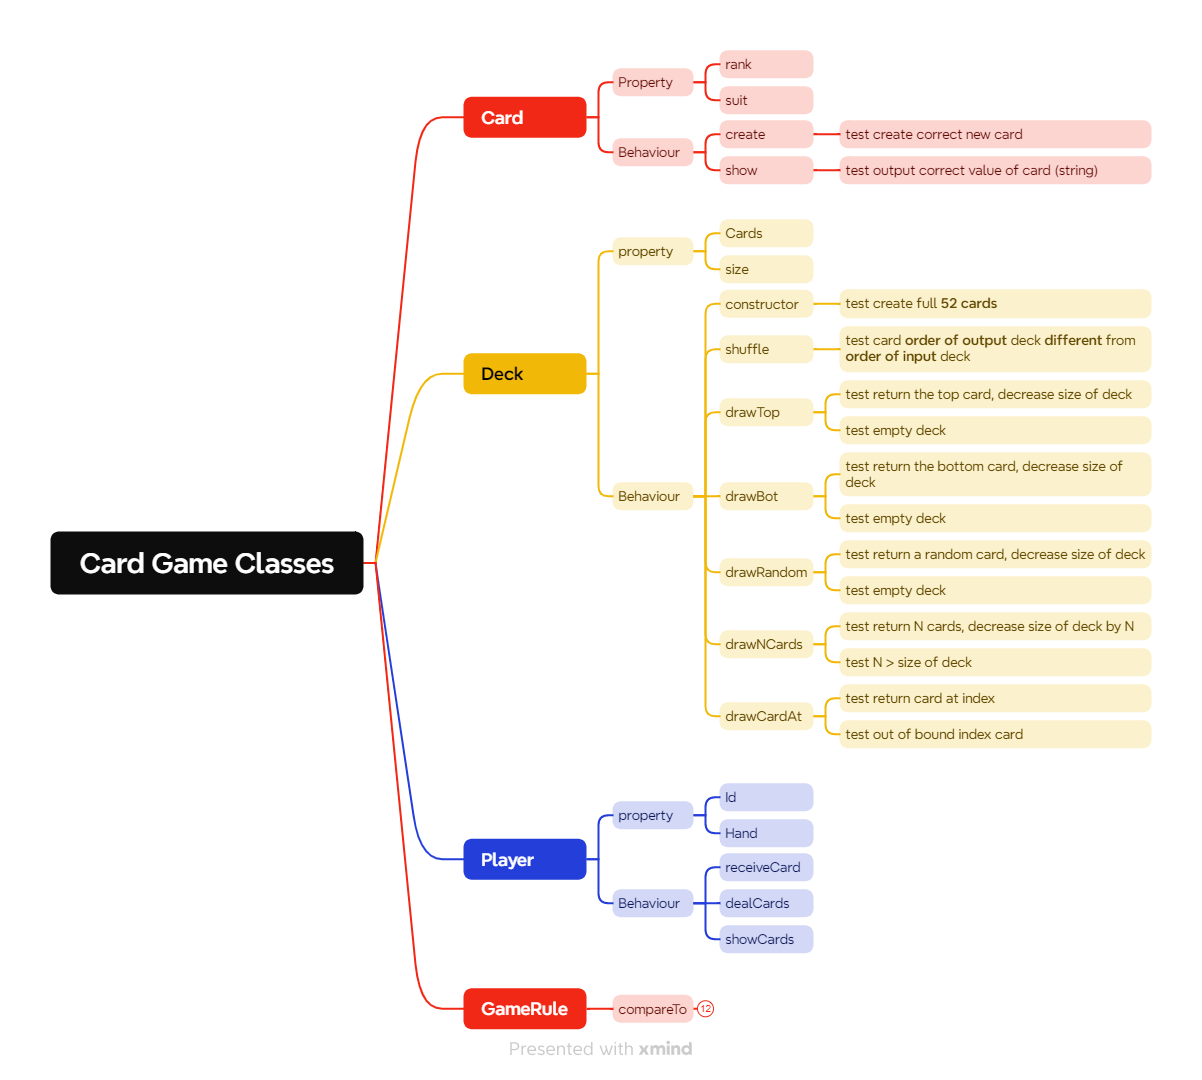
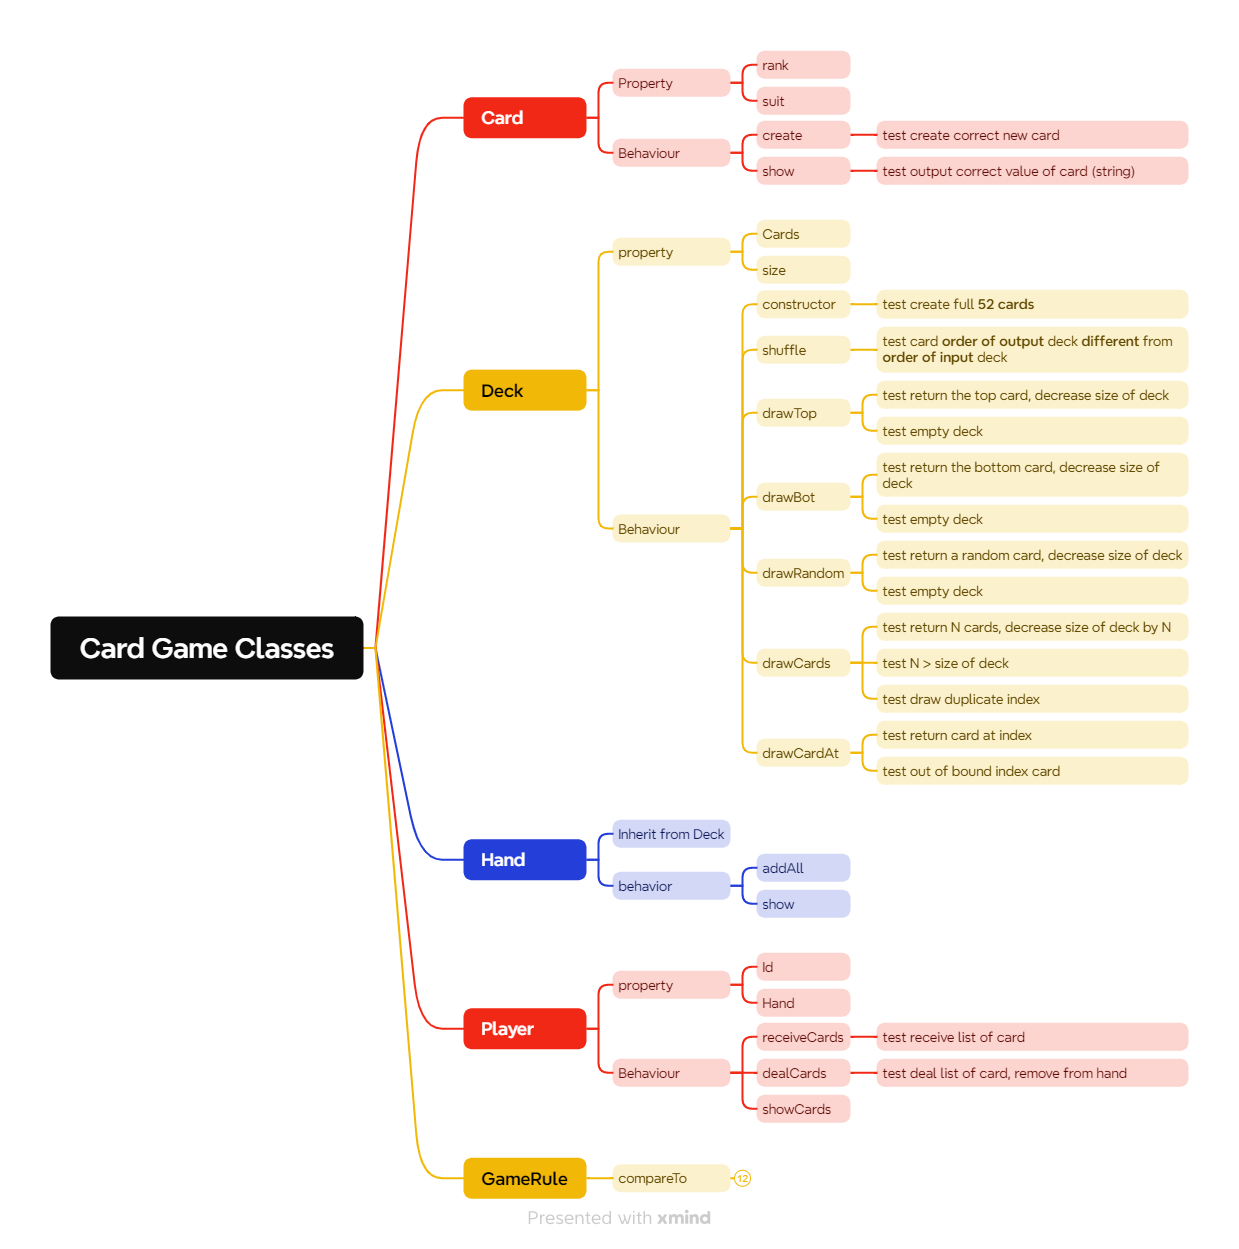
update 20240814: create Player, Hand classes

Changed region(s): [[0.0308, 0.0306, 0.985, 0.9167], [0.3386, 0.9167, 0.6156, 0.9778]]

diff --git a/Coding/Card Game/cards-game/src/test/java/main/java/PlayerTest.java b/Coding/Card Game/cards-game/src/test/java/main/java/PlayerTest.java
@@ -1,0 +1,90 @@
+package main.java;
+
+import static org.junit.jupiter.api.Assertions.assertEquals;
+import static org.junit.jupiter.api.Assertions.assertTrue;
+import static org.assertj.core.api.Assertions.*;
+
+import java.util.ArrayList;
+import java.util.List;
+
+import org.junit.jupiter.api.BeforeEach;
+import org.junit.jupiter.api.Test;
+
+import main.java.utils.RankType;
+import main.java.utils.SuitType;
+
+public class PlayerTest {
+
+    private Player player;
+    private Deck deck;
+
+    @BeforeEach
+    public void setUp() {
+        player = new Player("John");
+        deck = new Deck();
+
+        List<Card> mockCards = new ArrayList<>(){
+            {
+                add(new Card(RankType.TWO, SuitType.HEARTS));
+                add(new Card(RankType.THREE, SuitType.HEARTS));
+                add(new Card(RankType.FOUR, SuitType.HEARTS));
+                add(new Card(RankType.FIVE, SuitType.HEARTS));
+                add(new Card(RankType.SIX, SuitType.HEARTS));
+                add(new Card(RankType.SEVEN, SuitType.HEARTS));
+                add(new Card(RankType.EIGHT, SuitType.HEARTS));
+                add(new Card(RankType.NINE, SuitType.HEARTS));
+                add(new Card(RankType.TEN, SuitType.HEARTS));
+            }
+        };
+        player.receiveCards(mockCards);
+    }
+
+    @Test
+    public void testCreateNewPlayer() {
+        assertEquals("John", player.getName());
+    }
+
+    @Test
+    public void testReceiveCards_WhenInputListOfCards_ThenReturnCorrectHandSize() {
+        List<Integer> indexes = new ArrayList<>(){
+            {
+                add(2);
+                add(3);
+                add(4);
+                add(5);
+            }
+        };
+        List<Card> cards = deck.drawCards(indexes);
+        int oldHandSize = player.getHand().getSize();
+        player.receiveCards(cards);
+        assertEquals(indexes.size() + oldHandSize, player.getHand().getSize());
+        assertThat(player.getHand().getCards()).containsAll(cards);
+    }
+
+    @Test
+    public void testDealCards_WhenInputIndexes_ThenReturnListOfCards() {
+        List<Integer> indexes = new ArrayList<>(){
+            {
+                add(2);
+                add(3);
+                add(4);
+                add(5);
+            }
+        };
+
+        Card card1 = player.getHand().getCards().get(2);
+        Card card2 = player.getHand().getCards().get(3);
+        Card card3 = player.getHand().getCards().get(4);
+        Card card4 = player.getHand().getCards().get(5);
+
+        int oldHandSize = player.getHand().getSize();
+        List<Card> cards = player.dealCards(indexes);
+        
+        assertEquals(indexes.size(), cards.size());
+        assertEquals(oldHandSize - indexes.size(), player.getHand().getSize());
+        assertTrue(card1.equals(cards.get(0)));
+        assertTrue(card2.equals(cards.get(1)));
+        assertTrue(card3.equals(cards.get(2)));
+        assertTrue(card4.equals(cards.get(3)));
+    }
+}

diff --git a/Coding/Card Game/cards-game/src/test/java/main/java/DeckTest.java b/Coding/Card Game/cards-game/src/test/java/main/java/DeckTest.java
@@ -1,6 +1,8 @@
 package main.java;
 
 import static org.junit.jupiter.api.Assertions.assertEquals;
+import static org.junit.jupiter.api.Assertions.assertThrows;
+import static org.junit.jupiter.api.Assertions.assertTrue;
 
 import java.util.ArrayList;
 import java.util.List;
@@ -74,15 +76,13 @@ public class DeckTest {
     @Test 
     void testDrawCardAt_WhenIndexIsOutOfBound_ThenThrowException() {
         Deck deck = new Deck();
-        try {
-            deck.drawCardAt(52);
-        } catch (IllegalStateException e) {
-            assertEquals("No card at index 52", e.getMessage());
-        }
+
+        Exception exception  = assertThrows(IllegalArgumentException.class, () -> deck.drawCardAt(52));
+        assertEquals("No card at index 52", exception.getMessage());
     }
 
     @Test
-    void testGetCards_WhenIndexesAreValid_ThenReturnCardsAtSpecifiedIndexes() {
+    void testDrawCards_WhenIndexesAreValid_ThenReturnCardsAtSpecifiedIndexes() {
         Deck deck = new Deck();
         Card cardAt5 = deck.getCards().get(5);
         Card cardAt10 = deck.getCards().get(10);
@@ -92,11 +92,35 @@ public class DeckTest {
         indexes.add(5);
         indexes.add(10);
         indexes.add(15);
-        List<Card> returnedCards = deck.getCards(indexes);
+        List<Card> returnedCards = deck.drawCards(indexes);
 
-        assertEquals(cardAt5.show(), returnedCards.get(0).show());
-        assertEquals(cardAt10.show(), returnedCards.get(1).show());
-        assertEquals(cardAt15.show(), returnedCards.get(2).show());
+        assertTrue(cardAt5.equals(returnedCards.get(0)));
+        assertTrue(cardAt10.equals(returnedCards.get(1)));
+        assertTrue(cardAt15.equals(returnedCards.get(2)));
         assertEquals(49, deck.getSize());
+    }
+
+    @Test
+    void testDrawCards_WhenIndexesAreOutOfBound_ThenThrowException() {
+        Deck deck = new Deck();
+        List<Integer> indexes = new ArrayList<>();
+        indexes.add(5);
+        indexes.add(10);
+        indexes.add(52);
+
+        Exception exception = assertThrows(IllegalArgumentException.class, () -> deck.drawCards(indexes));
+        assertEquals("No card at index 52", exception.getMessage());
+    }
+
+    @Test
+    void testDrawCards_WhenDuplicateIndexes_ThenThrowDuplicateIndexesException() {
+        Deck deck = new Deck();
+        List<Integer> indexes = new ArrayList<>();
+        indexes.add(5);
+        indexes.add(5);
+        indexes.add(15);
+
+        Exception exception = assertThrows(IllegalArgumentException.class, () -> deck.drawCards(indexes));
+        assertEquals("Duplicate index: " + 5, exception.getMessage());
     }
 }

diff --git a/Coding/Card Game/cards-game/src/main/java/main/java/Deck.java b/Coding/Card Game/cards-game/src/main/java/main/java/Deck.java
@@ -1,7 +1,9 @@
 package main.java;
 
 import java.util.ArrayList;
+import java.util.LinkedHashSet;
 import java.util.List;
+import java.util.Set;
 
 import lombok.Getter;
 import lombok.Setter;
@@ -11,7 +13,7 @@ import main.java.utils.SuitType;
 @Getter
 @Setter
 public class Deck {
-    private List<Card> cards;
+    protected List<Card> cards;
 
     public Deck(){
         this.cards = new ArrayList<Card>();
@@ -49,20 +51,29 @@ public class Deck {
 
     public Card drawCardAt(int index) {
         if (cards.size() <= index) {
-            throw new IllegalStateException("No card at index " + index);
+            throw new IllegalArgumentException("No card at index " + index);
         }
         return cards.remove(index);
     }
 
-    public List<Card> getCards(List<Integer> indexes) {
+    public List<Card> drawCards(List<Integer> indexes) {
         List<Card> resultCards = new ArrayList<>();
+        Set<Integer> picked = new LinkedHashSet<>();
+        for(int i = 0; i < indexes.size(); i++) {
+            int index = indexes.get(i);
+            if (cards.size() <= index) {
+                throw new IllegalArgumentException("No card at index " + index + ". Deck size: " + cards.size());
+            }
+            if (picked.contains(index)) {
+                throw new IllegalArgumentException("Duplicate index: " + index);
+            }
+            resultCards.add(cards.get(index));
+            picked.add(index);
+        }
         indexes.sort((first, second) -> second - first);
         for (int i = indexes.size() - 1; i >= 0; i--) {
             int index = indexes.get(i);
-            if (cards.size() <= index) {
-                throw new IllegalStateException("No card at index " + index);
-            }
-            resultCards.add(cards.remove(index));
+            cards.remove(index);
         }
         return resultCards;
     }

diff --git a/Coding/Card Game/cards-game/src/test/java/main/java/HandTest.java b/Coding/Card Game/cards-game/src/test/java/main/java/HandTest.java
@@ -1,0 +1,56 @@
+package main.java;
+
+import static org.junit.jupiter.api.Assertions.assertEquals;
+
+import java.util.ArrayList;
+import java.util.List;
+
+import org.junit.jupiter.api.BeforeEach;
+import org.junit.jupiter.api.Test;
+
+import main.java.utils.RankType;
+import main.java.utils.SuitType;
+
+public class HandTest {
+
+    private Deck deck;
+
+    @BeforeEach
+    public void setUp() {
+        deck = new Deck();
+    }
+
+    @Test
+    void testAddAll_WhenListOfCard_ThenReturnCorrectSize() {
+        List<Integer> indexes = new ArrayList<>(){
+            {
+                add(2);
+                add(3);
+                add(4);
+                add(5);
+            }
+        };
+        Hand hand = new Hand();
+        hand.addAll(deck.drawCards(indexes));
+        assertEquals(indexes.size(), hand.getSize());
+    }
+
+    @Test
+    void testShow_WhenHandHasCards_ThenReturnCorrectString() {
+        List<Card> cards = new ArrayList<>(){
+            {
+                add(new Card(RankType.FOUR, SuitType.HEARTS));
+                add(new Card(RankType.FIVE, SuitType.HEARTS));
+                add(new Card(RankType.SIX, SuitType.HEARTS));
+                add(new Card(RankType.SEVEN, SuitType.HEARTS));
+            }
+        };
+        Hand hand = new Hand(cards);
+        String expected = "Cards in hand: \n" +
+                            "0. 4♥\n" +
+                            "1. 5♥\n" +
+                            "2. 6♥\n" +
+                            "3. 7♥\n";
+        assertEquals(expected, hand.show());
+    }
+}

diff --git a/Coding/Card Game/cards-game/src/main/java/main/java/Player.java b/Coding/Card Game/cards-game/src/main/java/main/java/Player.java
@@ -1,0 +1,36 @@
+package main.java;
+
+import java.util.List;
+
+import lombok.Getter;
+import lombok.Setter;
+
+@Getter
+@Setter
+public class Player {
+    private String name;
+    private Hand hand;
+    
+    public Player(String name) {
+        this.name = name;
+        this.hand = new Hand();
+    }
+
+    public Player(String name, Hand hand) {
+        this.name = name;
+        this.hand = hand;
+    }
+
+    public void receiveCards(List<Card> cards) {
+        hand.addAll(cards);
+    }
+
+	public List<Card> dealCards(List<Integer> indexes) {
+		return hand.drawCards(indexes);
+	}
+
+    public String showHand(){
+        return hand.show();
+    }
+
+}

diff --git a/Coding/Card Game/cards-game/src/main/java/main/java/Hand.java b/Coding/Card Game/cards-game/src/main/java/main/java/Hand.java
@@ -1,0 +1,26 @@
+package main.java;
+
+import java.util.ArrayList;
+import java.util.List;
+
+public class Hand extends Deck {
+    public Hand() {
+        this.cards = new ArrayList<Card>();
+    }
+
+    public Hand(List<Card> cards) {
+        this.cards = cards;
+    }
+
+    public void addAll(List<Card> cards) {
+        this.cards.addAll(cards);
+    }
+
+    public String show(){
+        String handStr = "Cards in hand: \n";
+        for (int i = 0; i < cards.size(); i++) {
+            handStr += i + ". " + cards.get(i).show() + "\n";
+        }
+        return handStr;
+    }
+}

diff --git a/Coding/Card Game/cards-game/src/test/java/main/java/CardTest.java b/Coding/Card Game/cards-game/src/test/java/main/java/CardTest.java
@@ -23,4 +23,12 @@ public class CardTest {
         String cardValue = card.show();
         assertEquals(expectedCardValue, cardValue);
     }
+
+    @Test
+    void testEquals_WhenTwoCardsHaveSameRankAndSuit_ThenReturnTrue() {
+        Card card1 = Card.create(RankType.TWO, SuitType.HEARTS);
+        Card card2 = Card.create(RankType.TWO, SuitType.HEARTS);
+
+        assertEquals(true, card1.equals(card2));
+    }
 }

diff --git a/Coding/Card Game/cards-game/src/main/java/main/java/Card.java b/Coding/Card Game/cards-game/src/main/java/main/java/Card.java
@@ -23,4 +23,8 @@ public class Card {
     public String show() {
         return rank.getRank() + suit.getSymbol();
     }
+
+    public boolean equals(Card card) {
+        return this.rank == card.getRank() && this.suit == card.getSuit();
+    }
 }
